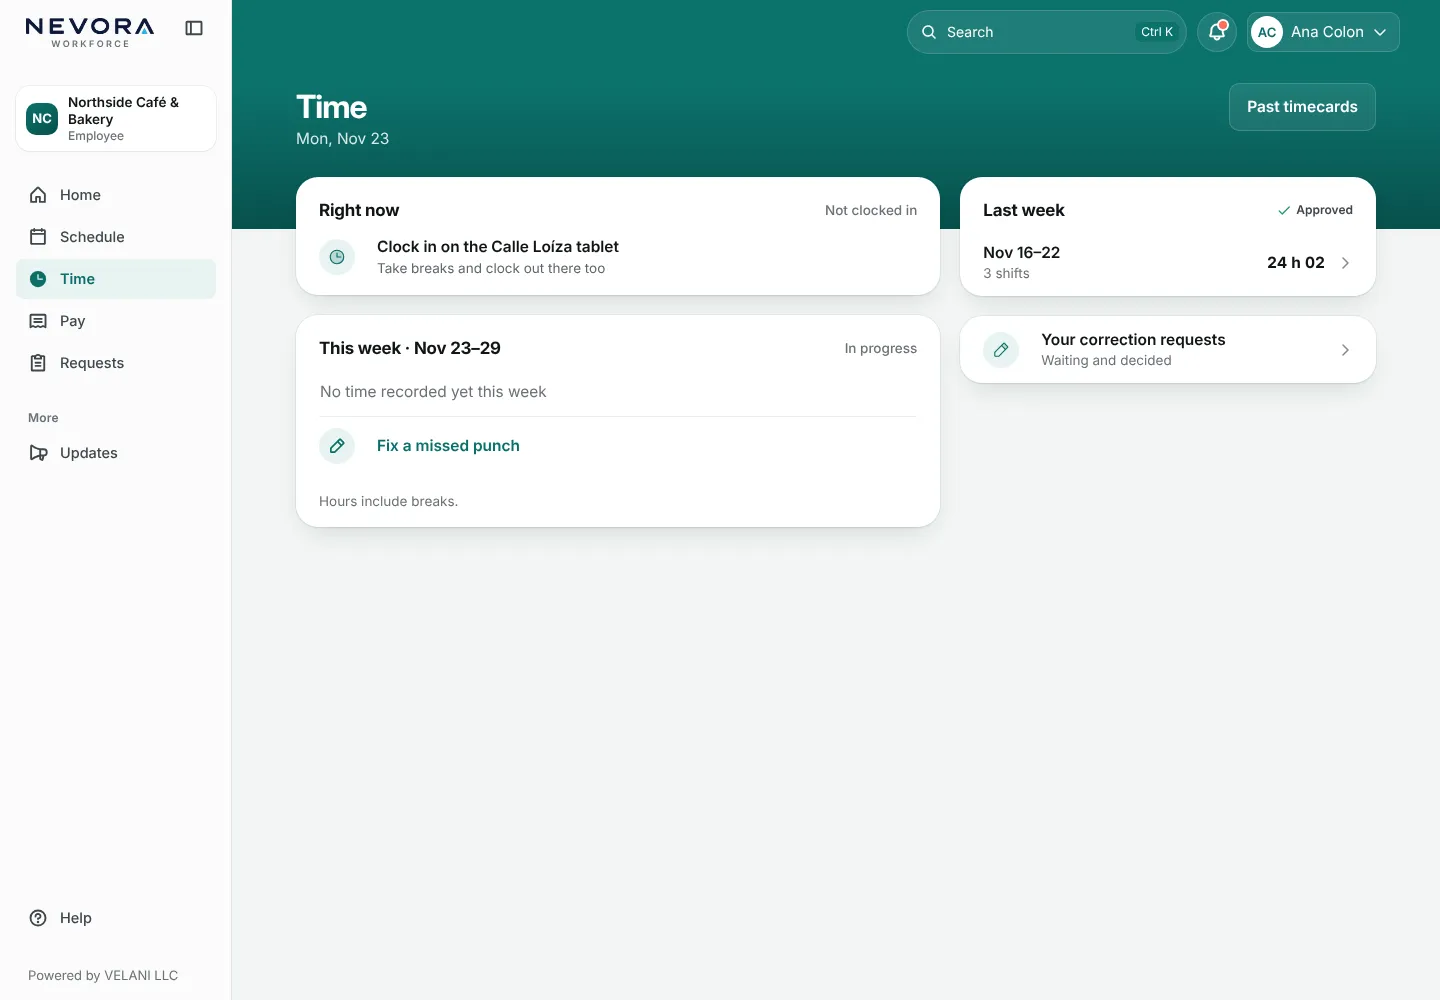
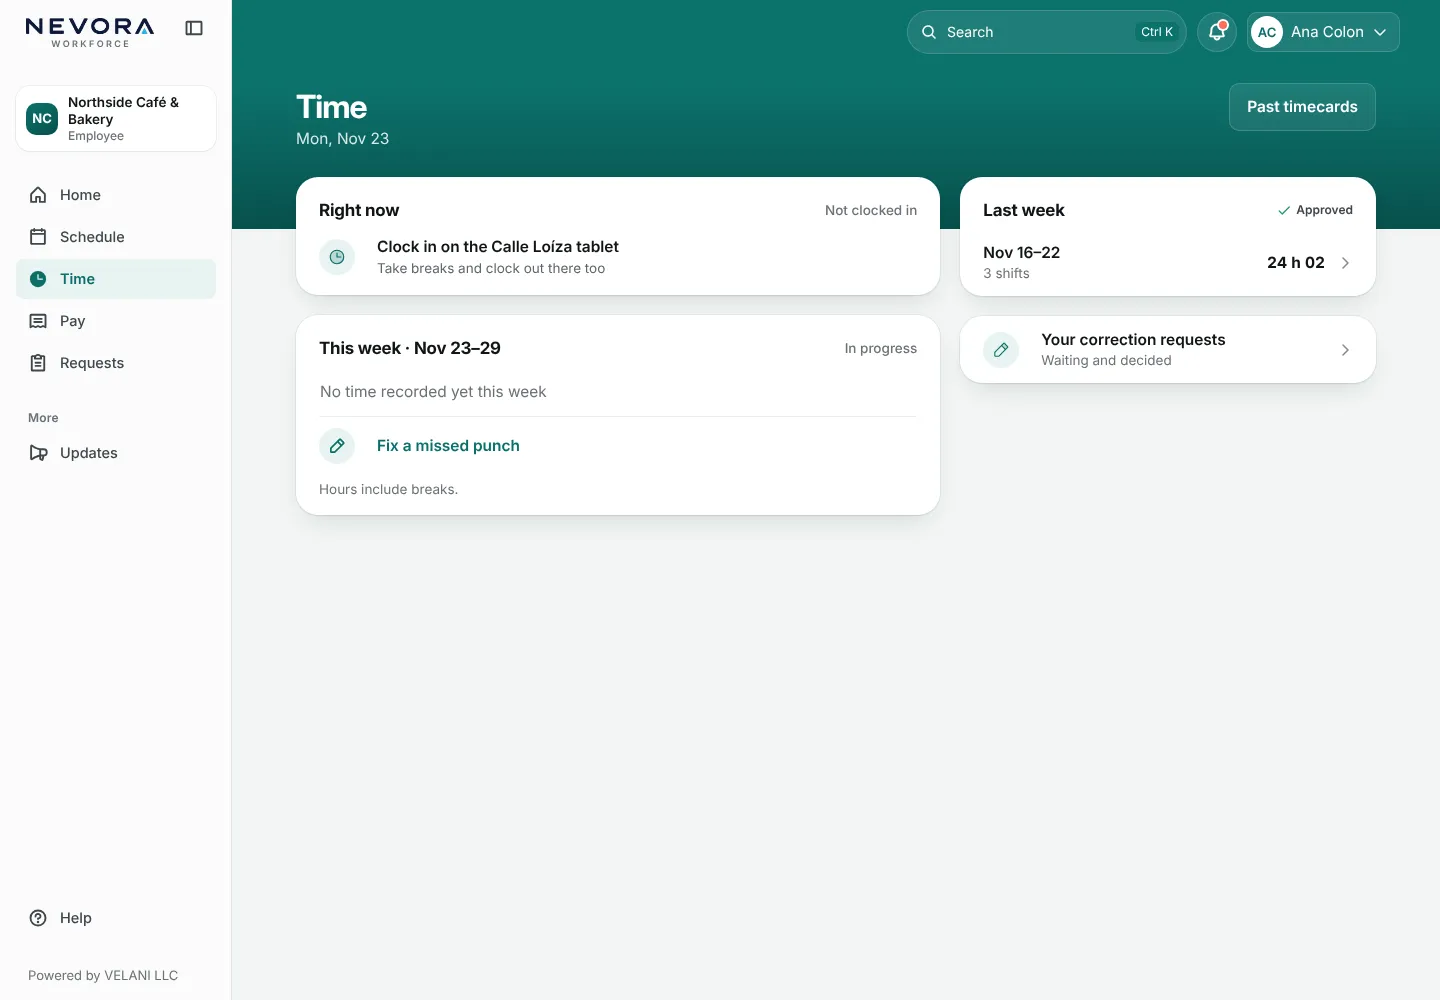
D4 captures after the footer-note and 200% text fixes; report updated
Claude-Session: https://claude.ai/code/session_01N2UNZFqp7qzHeMjmMWaExv

Changed region(s): [[0.2188, 0.465, 0.6562, 0.527]]

diff --git a/docs/handoffs/2026-11-23-phase2-cloud/reports/batch-time-team.md b/docs/handoffs/2026-11-23-phase2-cloud/reports/batch-time-team.md
@@ -16,6 +16,8 @@ restricted or no-grant screen a role gets instead. Fictional data, a throwaway l
 | `6a463845`, `f5f69931` | F2, D3 | A closed page names itself: "Add employee" (was "Employee creation"), "Request time correction" (was "Time corrections") |
 | `fe23473e` | D4 | Time rows are named by what they show (axe label-content-name-mismatch); the day, drawn aria-hidden, is screen-reader text first |
 | `42d6a7b5` | D4 | "No time recorded yet this week" sits on the card's text edge (was 4px left at 768 and 1440) |
+| `fac0de07`, `79679305` | D4 | Lead review: the This week footer note sat 28px under "Fix a missed punch"; now the row's 16px (rule in `@layer nv-b`, where the footer rule lives) |
+| `f9c22269` | D4 | 200% text at 390: the hours drew over the time range; they now move to the next line |
 
 Tests updated or added beside each change: `manager-time-corrections.test.tsx` (2 new), `clocker-pin-form.test.tsx`,
 `restrictions-screen.test.tsx`, `employee-b/time-b.test.tsx`, `employees/new/page.test.tsx`. Typecheck and oxlint
@@ -68,6 +70,10 @@ Manager Daniel `OWN-DANI` (Condado) without and then with the grant; Lead James 
 
 Edges: every page puts its cards at 14 / 108 / 296 px left and 14 / 28 / 332 px right (notices are a narrower centred
 card by design). D5 and F8 cards sit at 16 px on phones (their Settings frame), 2 px in from the other pages.
+
+D4 follow-up (lead review), production run on `f9c22269`: Employee and Lead at 390, 768, 1440 and 390 with 200% text.
+Note gap 16px at every width (was 28px); row heights unchanged at normal sizes (59 / 64px); no overlap at 200% text;
+axe 0; overflow 0. The D4 Lead and Employee captures are from this run.
 
 ## Before and after words
 - D2 card sub-line: "Calle Loíza · Clock in / Clock out" → "Calle Loíza" (a missing time or a break keeps its label).
